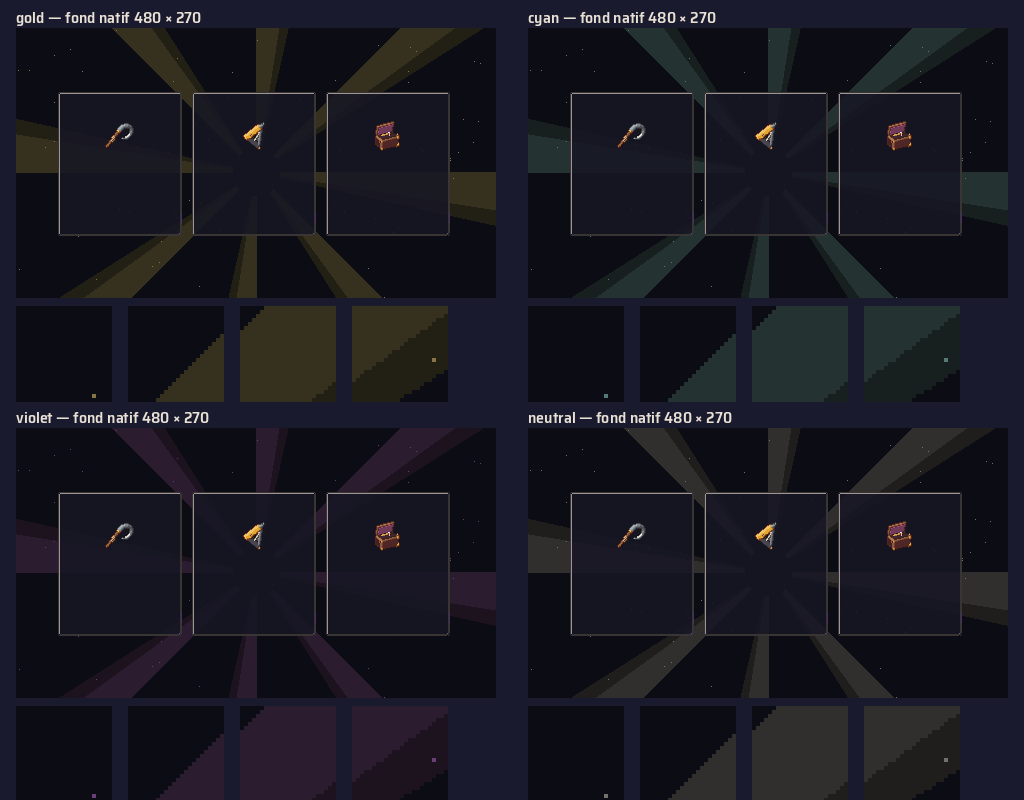
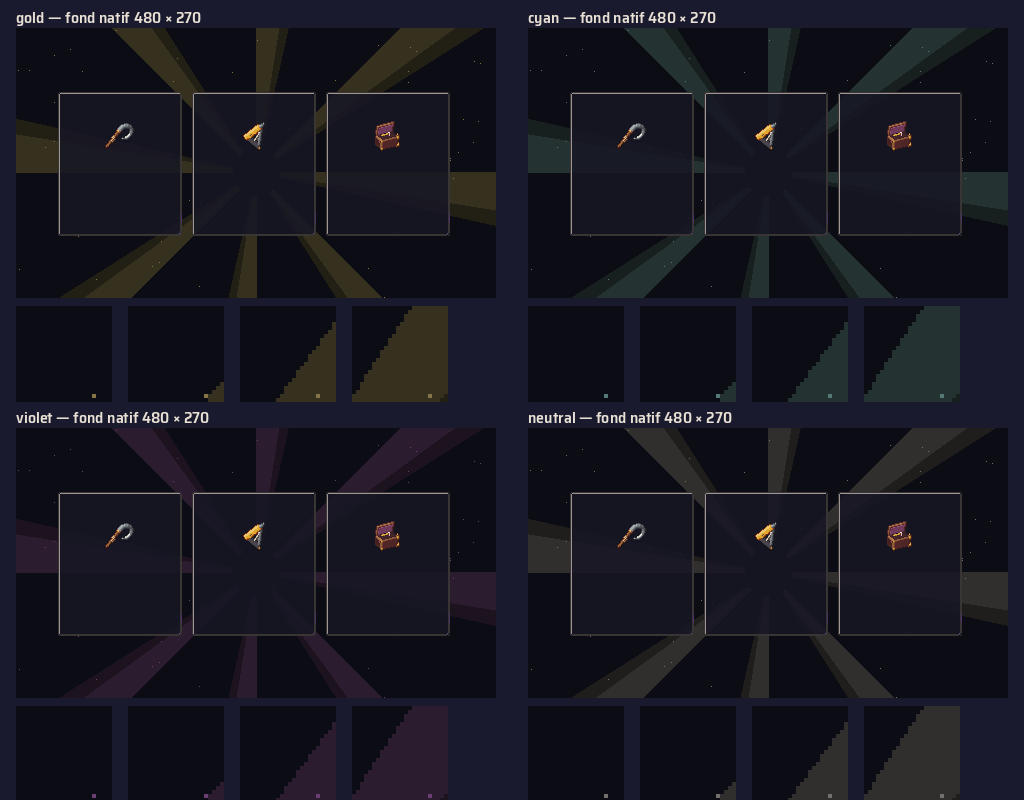
fix: rétablir une rotation continue du fond des coffres
Rayons à 8 degrés par seconde, calculés à chaque rendu sur la grille native. Capture de 32 images inspectée ; build, smoke et contrats UI verts.

diff --git a/tools/generate_screen_sprites.py b/tools/generate_screen_sprites.py
@@ -11,7 +11,7 @@ from PIL import Image, ImageDraw, ImageFont
 sys.path.insert(0, str(Path(__file__).resolve().parent.parent))
 
 from tools.sprites.ui.kit import BIOMES, DARK, FONT, board, export, nine_patch
-from tools.sprites.ui.screens import FRAMES, SIZE, TINTS, assets, background, loading_ground, skin
+from tools.sprites.ui.screens import FRAMES, ROTATION_DEGREES_PER_SECOND, SIZE, TINTS, assets, background, loading_ground, skin
 
 
 def write_sheets(folder: Path, images: dict[str, Image.Image]) -> None:
@@ -30,7 +30,7 @@ def write_sheets(folder: Path, images: dict[str, Image.Image]) -> None:
         sheet.alpha_composite(panel, (x, y))
         draw.text((x, y - 24), f"{tint} — fond natif 480 × 270", font=font, fill="#E8E0D4")
         for f in range(4):
-            crop = background(tint).crop((300 + f * 24, 30, 324 + f * 24, 54)).resize((96, 96), Image.Resampling.NEAREST)
+            crop = background(tint, seconds=f * .5).crop((300, 30, 324, 54)).resize((96, 96), Image.Resampling.NEAREST)
             sheet.alpha_composite(crop, (x + f * 112, y + 278))
     sheet.save(folder / "25-s7-ecrans.png")
     rows = [(name, [image]) for name, image in images.items() if name.startswith("ui_")]
@@ -55,7 +55,8 @@ def main() -> None:
     if args.export:
         output = Path("assets/ui/screens/plan25")
         export(images, output, "generate_screen_sprites")
-        manifest = {"background": {"frame_size": list(SIZE), "frames": FRAMES, "animation": "dust_twinkle", "tints": list(TINTS)},
+        manifest = {"background": {"frame_size": list(SIZE), "frames": FRAMES, "animation": "rotating_rays_and_dust",
+                                   "rotation_degrees_per_second": ROTATION_DEGREES_PER_SECOND, "tints": list(TINTS)},
                     "skin_margins": [4, 4, 4, 4], "loading_ground": {"size": [128, 32], "repeat_axis": "x", "biomes": list(BIOMES)},
                     "filter": "nearest"}
         (output / "screens_manifest.json").write_text(json.dumps(manifest, indent=2) + "\n")

diff --git a/tools/tests/UiArtRegression.cs b/tools/tests/UiArtRegression.cs
@@ -43,7 +43,7 @@ public partial class UiArtRegression : Node
                     && art.Glow.GetWidth() == art.Glow.GetHeight() * 2, $"Bonus {bonus.Id} : animation et lueur 2:1");
             }
             for (int tint = 0; tint < 4; tint++)
-                Check(ScreenArt.Background(tint).GetSize() == new Vector2(480, 270), $"Fond natif stable {tint}");
+                Check(ScreenArt.Background(tint).GetSize() == new Vector2(480, 270), $"Texture native du fond {tint}");
             Check(Frames(ScreenArt.Grounds, 5, 128, 32), "Les cinq sols de chargement sont importés");
             foreach (string skin in new[] { "button_normal", "button_hover", "button_pressed", "button_disabled",
                 "card_normal", "card_selected", "card_locked", "panel_frame", "panel_frame_selected" })
@@ -64,8 +64,10 @@ public partial class UiArtRegression : Node
                 "Chance : trois rangs révélés, animation arrêtée au bon éclat");
             PixelBackdrop backdrop = new(PixelBackdrop.MemorialTint);
             AddChild(backdrop);
-            Check(backdrop.Material is ShaderMaterial && backdrop.TextureFilter == CanvasItem.TextureFilterEnum.Nearest,
-                "Le scintillement conserve les pixels natifs sans faire défiler des poses");
+            Check(backdrop.Material is ShaderMaterial material
+                && Mathf.IsEqualApprox(material.GetShaderParameter("rotation_degrees_per_second").AsSingle(), 8f)
+                && backdrop.TextureFilter == CanvasItem.TextureFilterEnum.Nearest,
+                "Rotation continue à 8 degrés/s, grille native et filtre nearest");
             GD.Print($"[UiArtRegression] RESULT failures={_failures}");
             GetTree().Quit(_failures == 0 ? 0 : 1);
         }

diff --git a/scripts/UI/PixelBackdrop.cs b/scripts/UI/PixelBackdrop.cs
@@ -1,9 +1,10 @@
 using Godot;
+using Vestiges.Infrastructure;
 
 namespace Vestiges.UI;
 
 /// <summary>
-/// Fond commun en 480 × 270 : rayons stables et scintillement continu des poussières natives.
+/// Fond commun en 480 × 270 : rotation continue des rayons et scintillement des poussières natives.
 /// Une teinte par écran ; <see cref="FadeIn"/> le fait monter à l'ouverture.
 /// </summary>
 public partial class PixelBackdrop : TextureRect
@@ -22,9 +23,9 @@ public partial class PixelBackdrop : TextureRect
 
     public PixelBackdrop(Color tint)
     {
-        SetTint(tint);
         _twinkleShader ??= GD.Load<Shader>("res://assets/shaders/ui_dust_twinkle.gdshader");
         Material = new ShaderMaterial { Shader = _twinkleShader };
+        SetTint(tint);
         TextureFilter = TextureFilterEnum.Nearest;
         ExpandMode = ExpandModeEnum.IgnoreSize;
         StretchMode = StretchModeEnum.Scale;
@@ -36,6 +37,10 @@ public partial class PixelBackdrop : TextureRect
     public void SetTint(Color tint)
     {
         Texture = ScreenArt.Background(tint == GoldTint ? 0 : tint == MemorialTint ? 1 : tint == RiftTint ? 2 : 3);
+        ShaderMaterial material = (ShaderMaterial)Material;
+        string palette = tint == GoldTint ? "legendary" : tint == MemorialTint ? "memorial" : tint == RiftTint ? "rift" : "common";
+        material.SetShaderParameter("ray_color", RarityPalette.Main(palette));
+        material.SetShaderParameter("rotation_degrees_per_second", ScreenArt.RotationDegreesPerSecond);
     }
 
     /// <summary>Le fond monte de rien à plein en <paramref name="seconds"/>.</summary>

diff --git a/tools/sprites/ui/screens.py b/tools/sprites/ui/screens.py
@@ -10,12 +10,13 @@ from PIL import Image, ImageDraw
 from .kit import BIOMES, ground_patch
 
 FRAMES = 1
+ROTATION_DEGREES_PER_SECOND = 8.0
 SIZE = (480, 270)
 COLORS = {p["id"]: p for p in json.loads(Path("data/ui/rarities.json").read_text())["rarities"]}
 TINTS = {"gold": "legendary", "cyan": "memorial", "violet": "rift", "neutral": "common"}
 
 
-def background(tint: str) -> Image.Image:
+def background(tint: str, seconds: float = 0) -> Image.Image:
     rgb = np.asarray(tuple(bytes.fromhex(COLORS[TINTS[tint]]["color"][1:])), dtype=float)
     # Quatre niveaux discrets pour toute l'image ; la faible valeur laisse les cartes au premier plan.
     palette = np.asarray([(12, 12, 21), tuple((rgb * .09 + 13).astype(int)),
@@ -23,8 +24,8 @@ def background(tint: str) -> Image.Image:
     yy, xx = np.mgrid[:SIZE[1], :SIZE[0]]
     x, y = xx - 240, yy - 144
     angle = np.arctan2(y, x)
-    # Les grands rayons restent fixes : leur rotation par poses faisait sauter tout l'écran.
-    ray = np.mod(angle / (np.pi / 4), 1)
+    # Même rotation continue que le shader ; l'export garde la pose initiale et les poussières.
+    ray = np.mod(angle / (np.pi / 4) + seconds * ROTATION_DEGREES_PER_SECOND / 45, 1)
     radius = np.hypot(x, y)
     indices = np.where(ray < .2, 2, np.where(ray < .28, 1, 0))
     indices[radius < 24] = 0

diff --git a/tools/tests/RunObservation.Chests.cs b/tools/tests/RunObservation.Chests.cs
@@ -148,12 +148,13 @@ public partial class RunObservation
         interaction.GetType().GetMethod("OpenChest", BindingFlags.NonPublic | BindingFlags.Instance).Invoke(interaction, new object[] { nearest });
         if (System.Array.IndexOf(OS.GetCmdlineUserArgs(), "--capture-loot-motion") >= 0)
         {
-            // Après le fondu : le fond doit rester stable entre les images, seules les poussières scintillent.
+            // Après le fondu : vérifier le déplacement continu des rayons, horodaté au rendu.
             await ToSignal(GetTree().CreateTimer(0.7, processAlways: true), SceneTreeTimer.SignalName.Timeout);
             for (int sample = 0; sample < 32; sample++)
             {
                 await ToSignal(GetTree().CreateTimer(1.0 / 30, processAlways: true), SceneTreeTimer.SignalName.Timeout);
                 await ToSignal(RenderingServer.Singleton, RenderingServer.SignalName.FramePostDraw);
+                GD.Print($"[RunObservation] loot-motion frame={sample} t_ms={Time.GetTicksMsec()}");
                 using Image motion = GetViewport().GetTexture().GetImage();
                 motion.Resize(960, 540, Image.Interpolation.Nearest);
                 motion.SavePng($"{_output}/loot-motion-{sample:00}.png");

diff --git a/scripts/UI/ScreenArt.cs b/scripts/UI/ScreenArt.cs
@@ -8,6 +8,7 @@ public static class ScreenArt
     public const string Folder = "res://assets/ui/screens/plan25/";
     private static Texture2D[] _backgrounds;
     private static Texture2D[] _grounds;
+    public static float RotationDegreesPerSecond { get; private set; }
 
     private static void Load()
     {
@@ -16,6 +17,7 @@ public static class ScreenArt
         using FileAccess file = FileAccess.Open(Folder + "screens_manifest.json", FileAccess.ModeFlags.Read);
         Godot.Collections.Dictionary data = Json.ParseString(file.GetAsText()).AsGodotDictionary();
         Godot.Collections.Dictionary background = data["background"].AsGodotDictionary();
+        RotationDegreesPerSecond = (float)background["rotation_degrees_per_second"].AsDouble();
         Godot.Collections.Array tints = background["tints"].AsGodotArray();
         _backgrounds = new Texture2D[tints.Count];
         for (int i = 0; i < tints.Count; i++)

diff --git a/doc/plans/25-sprites-et-design.md b/doc/plans/25-sprites-et-design.md
@@ -487,3 +487,23 @@ successives d'un vrai coffre inspectée (`/tmp/vestiges-plan25-i6-loot/`).
 Dans une zone du fond hors HUD/cartes, seuls 12 pixels sur 28 600 changent
 de luminosité entre les images : les rayons restent en place. Les 21 PNG
 réexportés (textures et planches) sont identiques lors d'une seconde génération.
+
+### Correctif I7 — rotation continue, DECISIONS §43
+
+I6 est corrigé : Raphaël veut conserver la rotation. Le shader calculera
+l'angle à chaque image rendue, à 8°/s, avec les couleurs et la grille native
+du générateur. Aucun défilement d'atlas à basse cadence. Vérifier les images
+successives d'un coffre, le build, le smoke et les contrats UI.
+
+Livré : angle piloté par `TIME` dans le shader, vitesse issue du manifeste,
+couleurs issues de la palette commune. À 60 images/s, l'avance est de 0,133°
+par image au lieu des anciens sauts de 5,625° à 3 images/s. La grille spatiale
+reste en 480 × 270 avec nearest, sans plafond de cadence de l'animation.
+
+Build : zéro avertissement ; smoke 600 frames et 122 contrôles UI verts.
+32 captures horodatées du coffre sur 2,039 s inspectées dans
+`/tmp/vestiges-plan25-i7-loot/` : les rayons se déplacent sur chacune des
+31 paires successives (928 à 1 336 pixels changés dans la zone observée),
+au lieu des seuls 12 pixels de poussières du fond fixe I6. Les captures ne
+mesurent pas les FPS du jeu ; la rotation est calculée à chaque rendu.
+Régénération des 21 PNG de textures/planches identique octet pour octet.

diff --git a/doc/VESTIGES-STRATEGIE-V2.md b/doc/VESTIGES-STRATEGIE-V2.md
@@ -831,7 +831,7 @@ Le script de post-processing doit inclure une vérification/correction de l'angl
 - [x] Plan 25 S5 : cinq bonus 16 px branchés au plan 24 C4, flottement, lueur 2:1 et disparition ; cinq ramassages capturés, effets et réutilisation du pool vérifiés.
 - [x] Plan 25 S1 : cinq raretés, cadres et reflets légendaires, sauts de Chance et trèfle branchés ; glyphes retirés, écrans de choix capturés.
 - [x] Plan 25 S2/S3 : 34 icônes d'objets natives 32/16 px ; 31 objets actifs raccordés aux écrans, HUD, pause et bilan, trois objets du monde visibles « À venir » en Collection. Résolveur d'anciennes icônes supprimé.
-- [x] Plan 25 S7 : quatre fonds animés natifs, neuf habillages de menus et cinq sols de chargement branchés ; rendu nearest vérifié par captures. Correctif I6 : rayons stabilisés et poussières continues après le retour sur les saccades (DECISIONS §42).
+- [x] Plan 25 S7 : quatre fonds animés natifs, neuf habillages de menus et cinq sols de chargement branchés ; rendu nearest vérifié par captures. Correctif I7 : rotation continue des rayons à 8°/s, poussières scintillantes ; fond fixe I6 remplacé conformément à DECISIONS §43.
 - [x] Plan 25 S8 : 14 icônes de Réminiscences en Collection, neuf définitions raccordées aux interfaces ; les effets non implémentés restent « À venir ». Choix et inventaire capturés.
 - [x] Hub visuel (camp du Foyer vivant, validé par Raphaël le 26 septembre 2026, plan 04).
 - [ ] Musiques adaptatives (5-6 tracks).

diff --git a/doc/plans/README.md b/doc/plans/README.md
@@ -1,6 +1,6 @@
 # VESTIGES — Dossier de plans à valider
 
-**1er octobre — correctif du fond des coffres :** rotation saccadée à 3 images/s remplacée par des rayons stables et un scintillement continu des poussières ; ouverture réelle capturée et inspectée (plan 25 I6).
+**1er octobre — correctif du fond des coffres :** rotation continue des rayons à 8°/s, calculée à chaque rendu, avec scintillement des poussières ; ouverture réelle capturée et inspectée (plan 25 I7, remplace le fond fixe I6 refusé par Raphaël).
 
 **1er octobre — [plan 25](25-sprites-et-design.md) intégré sur `main` :** à la demande de Raphaël ([DECISIONS §41](DECISIONS.md)), les huit lots sont raccordés aux écrans et systèmes du plan 24. Raretés et Chance, 34 objets, 14 motifs de Réminiscences, projectiles, cinq bonus, XP, sceaux, minimap, menus et chargement : captures inspectées, build sans avertissement, smoke vert. Les trois objets du monde et les Réminiscences sans effet actif restent « À venir » dans la Collection ; leurs images sont prêtes sans activer de nouvelles règles.
 

diff --git a/doc/plans/DECISIONS.md b/doc/plans/DECISIONS.md
@@ -553,3 +553,9 @@ pour brancher également bonus, sceaux, écrans animés et chargement.
 Raphaël : « l'animation quand un coffre s'ouvre en fond là elle est a 5 fps
 elle donne la gerbe c'est pas possible ». Corriger le mouvement du fond ;
 ce retour invalide la cadence et les sauts de rotation livrés au plan 25 I4.
+
+## 43. Garder la rotation du fond de coffre — 1er octobre 2026
+
+Raphaël : « non pas fixe ca doit tourner mais a une bonne vitesse c'est trop
+dur sérieux ». Le correctif I6 a mal interprété le retour : conserver une
+rotation fluide, à vitesse modérée, au lieu de figer les rayons.
